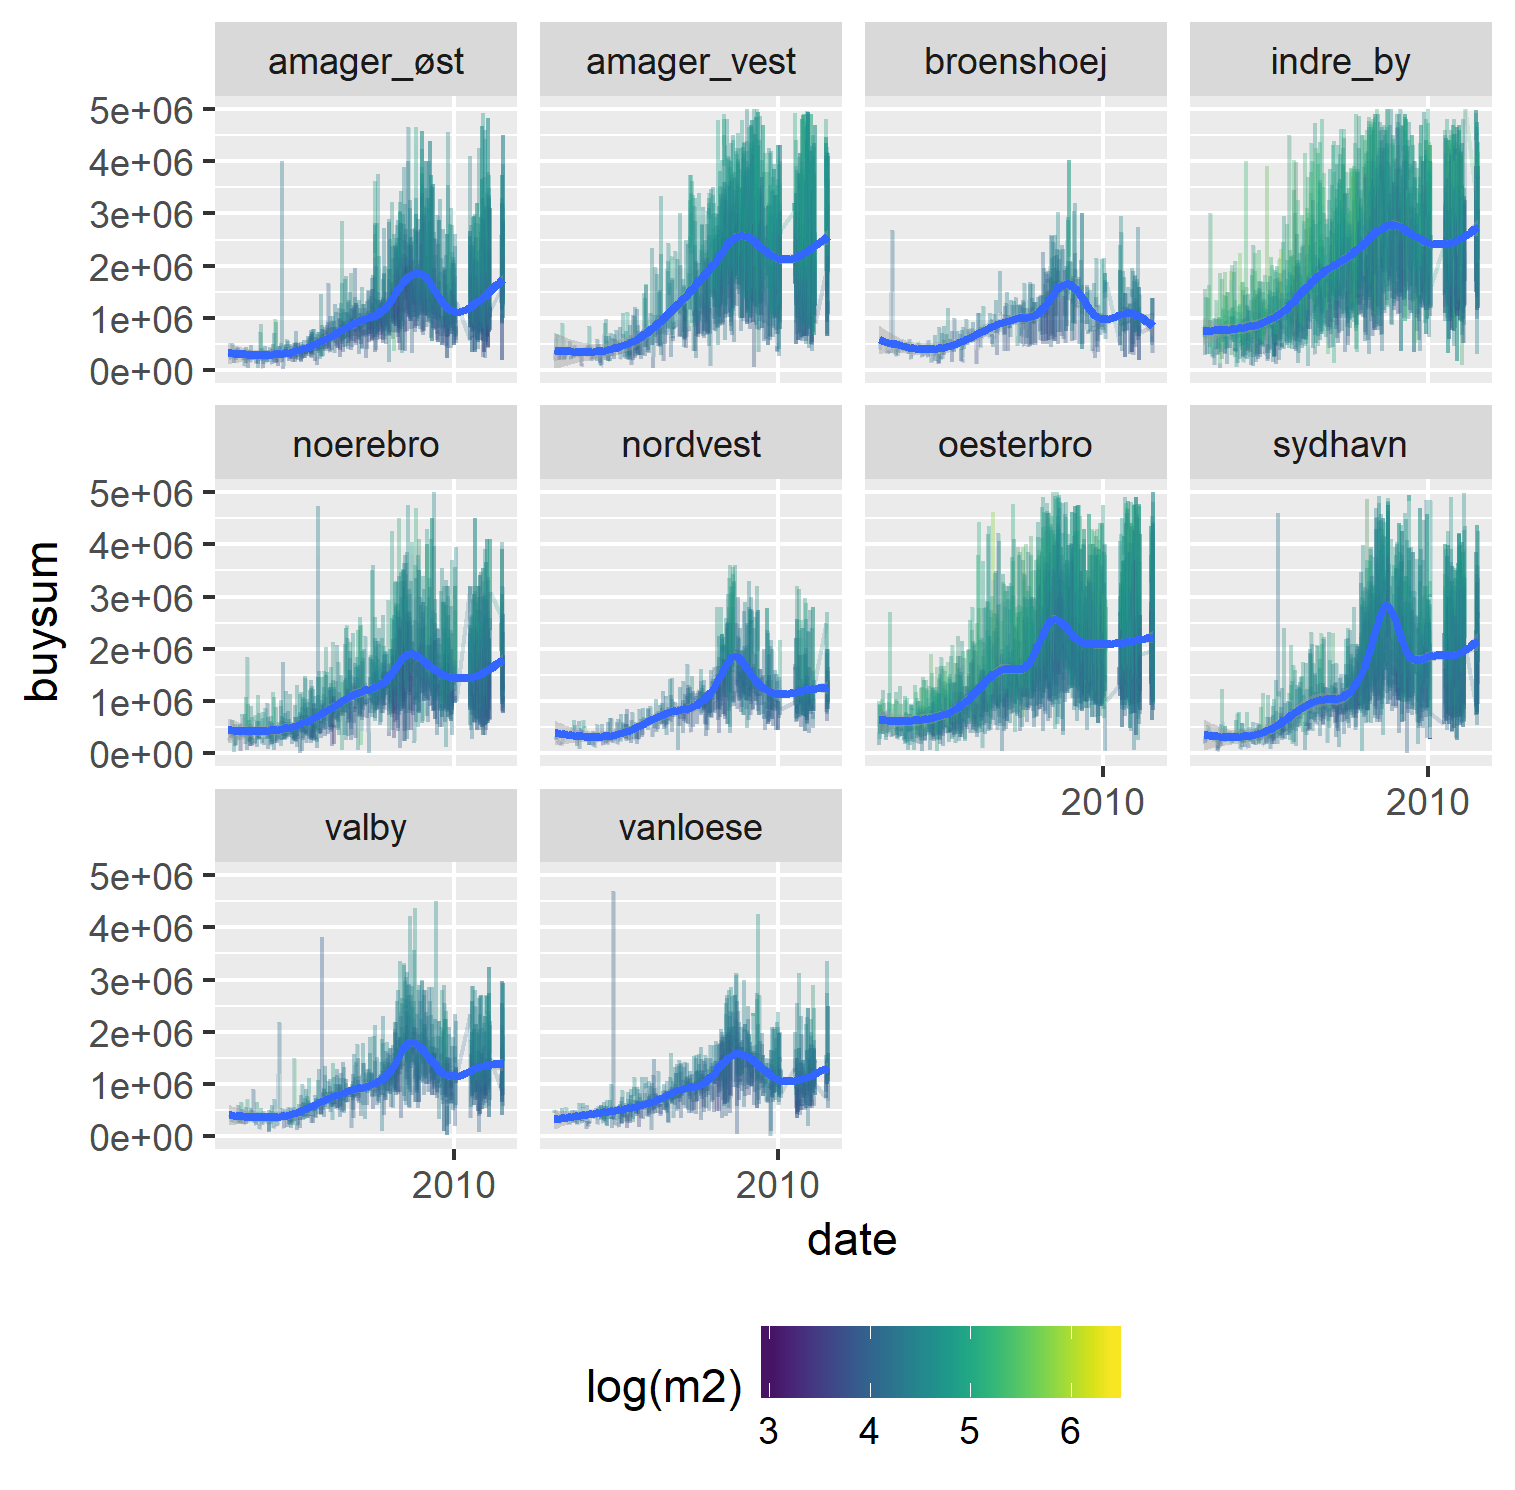
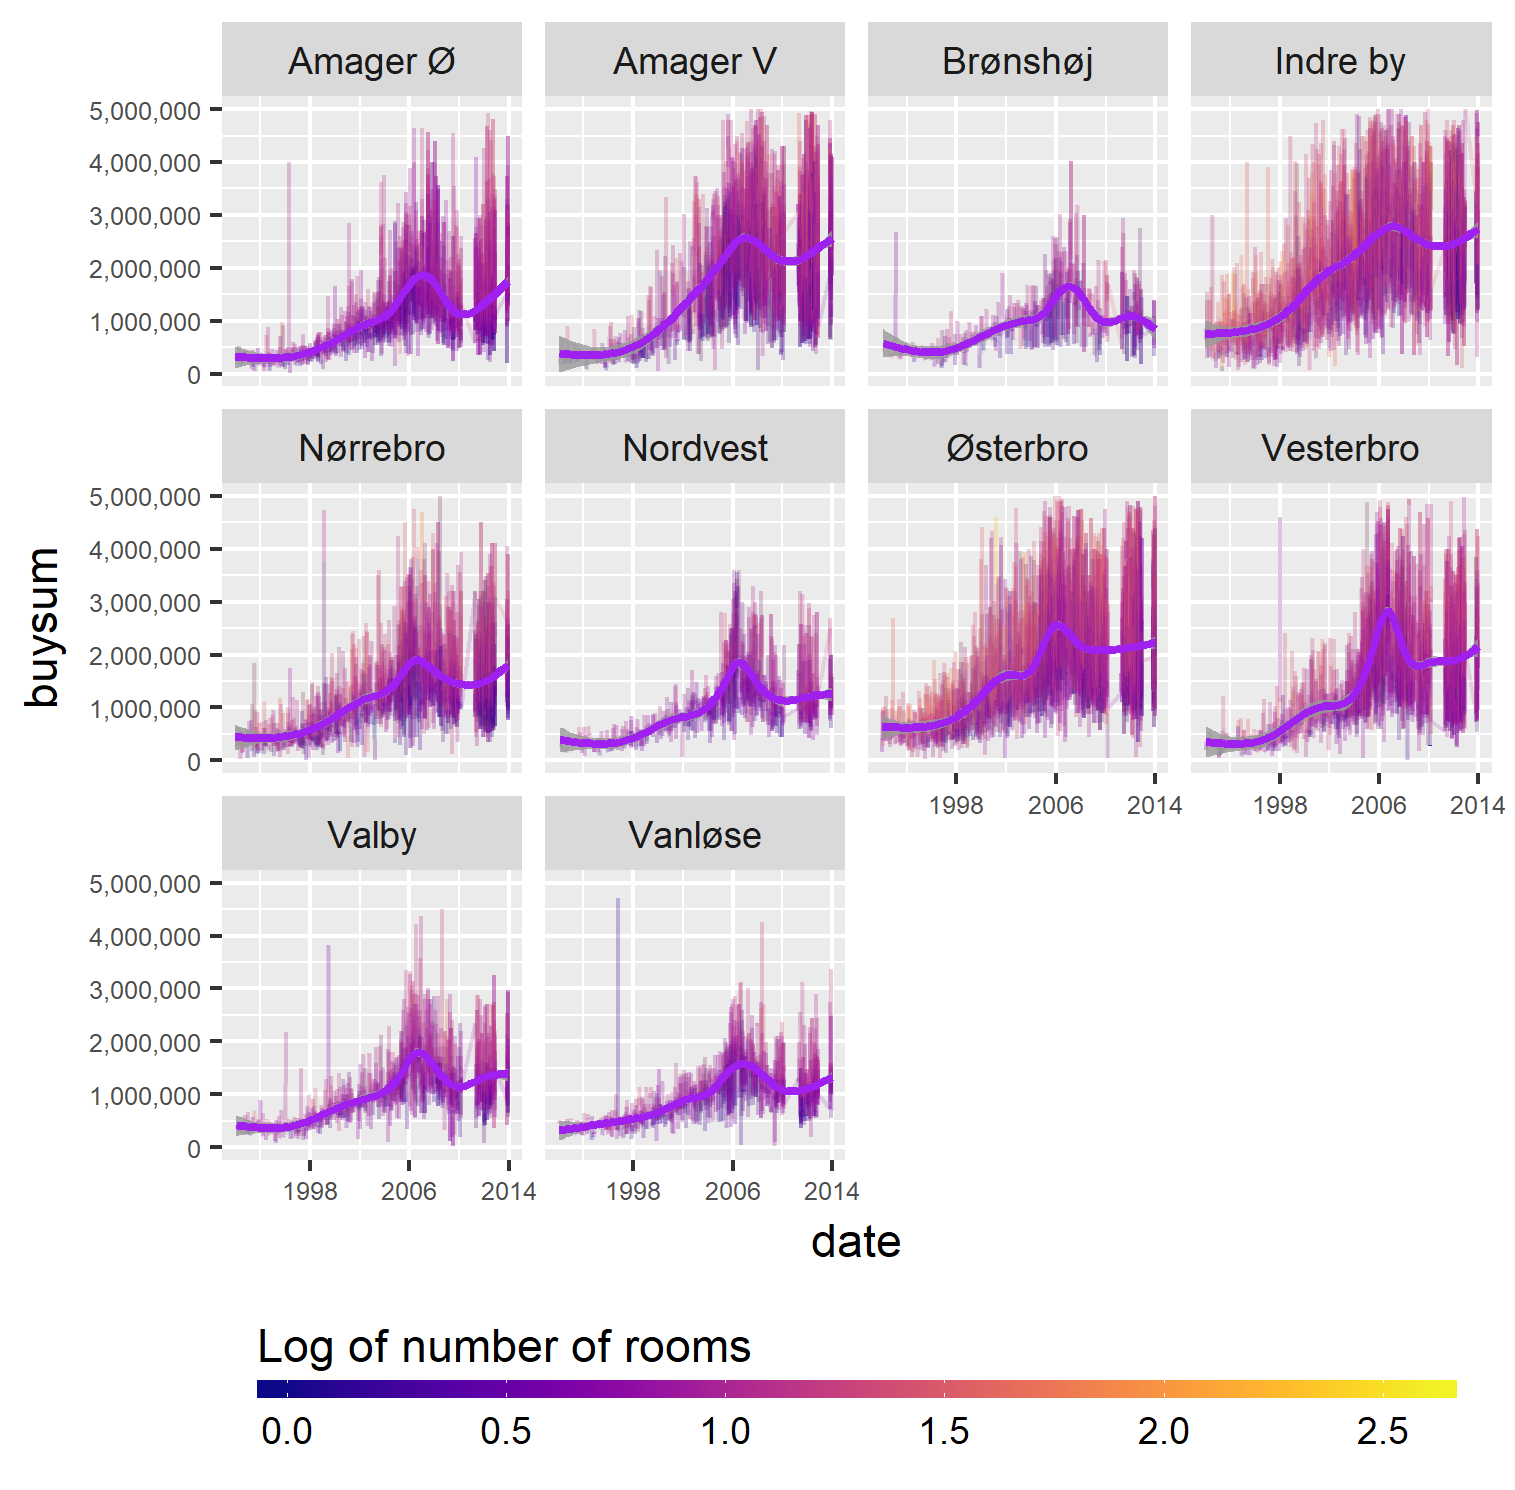
Readme and figures

diff --git a/README.md b/README.md
@@ -4,9 +4,17 @@
 
 The `Rscript.R` file contains everything as of now, but that might change in the future. I scrape the danish online housing marketplace [boliga](boliga.dk) for hitorical trade price data.
 
+The data covers the whole municipality of Copenhagen, but excludes Frederiksberg:
 <p align="center">
 <img src="map1.png" alt="GDP plot" width = "60%">
 </p>
+
+The oldest data are from around 1992, and will (sort of) be downloaded with the oldest observations first
+
+<p align="center">
+<img src="facet_over_time.png" alt="GDP plot" width = "60%">
+</p>
+
 
 
 ## Usage
